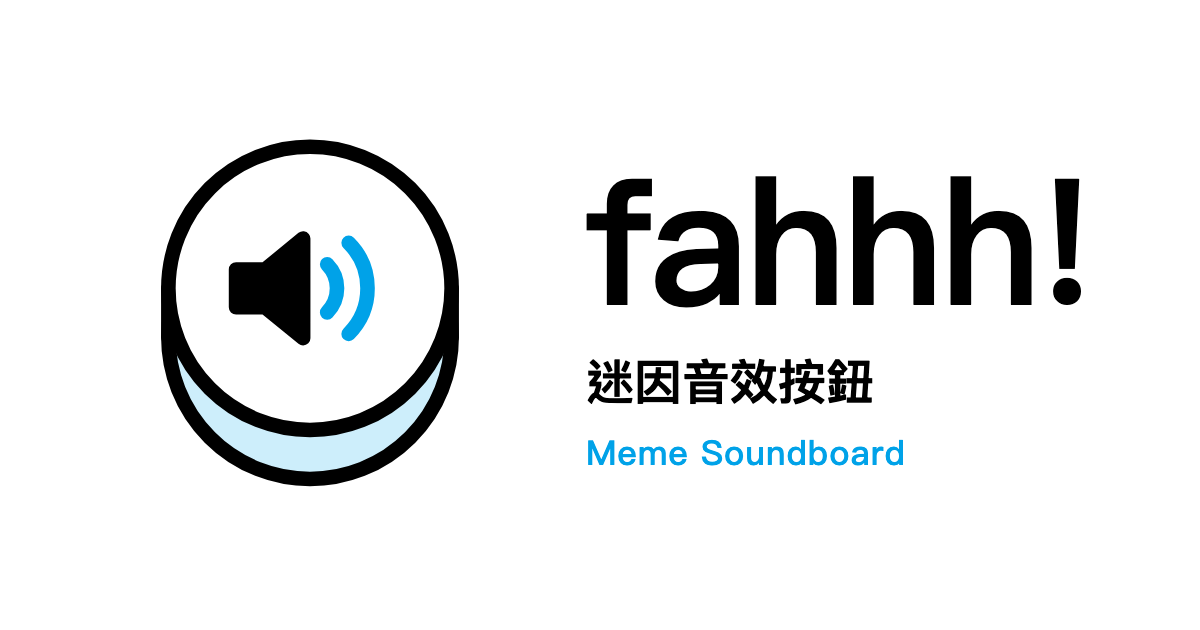
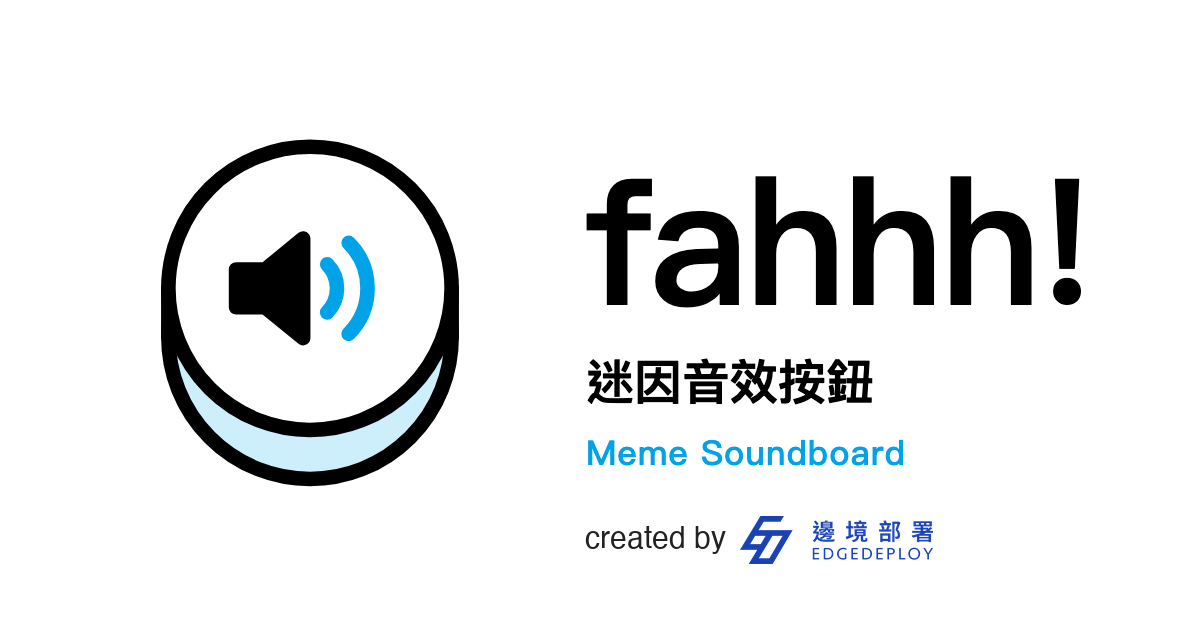
fix: 以帶有製作單位的分享圖直接取代舊版 og-image
og-image.png 換成含 created by 邊境部署 EdgeDeploy 的新版並移除 og-image-v2.png;og:image、twitter:image 加上 ?v=2 讓社群平台重新抓圖。

Changed region(s): [[0.4933, 0.8143, 0.8017, 0.9048]]

diff --git a/index.html b/index.html
@@ -20,15 +20,15 @@
     <meta property="og:title" content="fahhh! 迷因音效按鈕｜Meme Soundboard｜created by 邊境部署 EdgeDeploy">
     <meta property="og:description" content="免安裝的迷因音效按鈕與迷因總資料庫，一鍵播放，也能上傳自己的音檔。A free meme soundboard. created by 邊境部署 EdgeDeploy">
     <meta property="og:url" content="https://s97158latte-max.github.io/fahhh-/">
-    <meta property="og:image" content="https://s97158latte-max.github.io/fahhh-/images/og-image-v2.png">
+    <meta property="og:image" content="https://s97158latte-max.github.io/fahhh-/images/og-image.png?v=2">
     <meta property="og:image:width" content="1200">
     <meta property="og:image:height" content="630">
     <meta property="og:image:alt" content="fahhh! 迷因音效按鈕：喇叭圖示的街機按鈕，created by 邊境部署 EdgeDeploy">
     <meta name="twitter:card" content="summary_large_image">
     <meta name="twitter:title" content="fahhh! 迷因音效按鈕｜Meme Soundboard｜created by 邊境部署 EdgeDeploy">
     <meta name="twitter:description" content="免安裝的迷因音效按鈕與迷因總資料庫，一鍵播放，也能上傳自己的音檔。created by 邊境部署 EdgeDeploy">
-    <meta name="twitter:image" content="https://s97158latte-max.github.io/fahhh-/images/og-image-v2.png">
-    <script type="application/ld+json">{"@context":"https://schema.org","@type":"WebApplication","name":"fahhh!","alternateName":["fahhh 迷因音效按鈕","Meme Soundboard"],"url":"https://s97158latte-max.github.io/fahhh-/","description":"免安裝的迷因音效按鈕與迷因總資料庫，一鍵播放，也能上傳自己的音檔。","applicationCategory":"EntertainmentApplication","operatingSystem":"Any","browserRequirements":"Requires JavaScript","inLanguage":["zh-Hant","en"],"image":"https://s97158latte-max.github.io/fahhh-/images/og-image-v2.png","logo":"https://s97158latte-max.github.io/fahhh-/icons/icon-512.png","offers":{"@type":"Offer","price":"0","priceCurrency":"TWD"},"author":{"@type":"Organization","name":"邊境部署 EdgeDeploy"},"creator":{"@type":"Organization","name":"邊境部署 EdgeDeploy"},"publisher":{"@type":"Organization","name":"邊境部署 EdgeDeploy"}}</script>
+    <meta name="twitter:image" content="https://s97158latte-max.github.io/fahhh-/images/og-image.png?v=2">
+    <script type="application/ld+json">{"@context":"https://schema.org","@type":"WebApplication","name":"fahhh!","alternateName":["fahhh 迷因音效按鈕","Meme Soundboard"],"url":"https://s97158latte-max.github.io/fahhh-/","description":"免安裝的迷因音效按鈕與迷因總資料庫，一鍵播放，也能上傳自己的音檔。","applicationCategory":"EntertainmentApplication","operatingSystem":"Any","browserRequirements":"Requires JavaScript","inLanguage":["zh-Hant","en"],"image":"https://s97158latte-max.github.io/fahhh-/images/og-image.png","logo":"https://s97158latte-max.github.io/fahhh-/icons/icon-512.png","offers":{"@type":"Offer","price":"0","priceCurrency":"TWD"},"author":{"@type":"Organization","name":"邊境部署 EdgeDeploy"},"creator":{"@type":"Organization","name":"邊境部署 EdgeDeploy"},"publisher":{"@type":"Organization","name":"邊境部署 EdgeDeploy"}}</script>
     <link rel="preconnect" href="https://fonts.googleapis.com">
     <link rel="preconnect" href="https://fonts.gstatic.com" crossorigin>
     <link rel="stylesheet" href="https://fonts.googleapis.com/css2?family=Iansui&display=swap">
